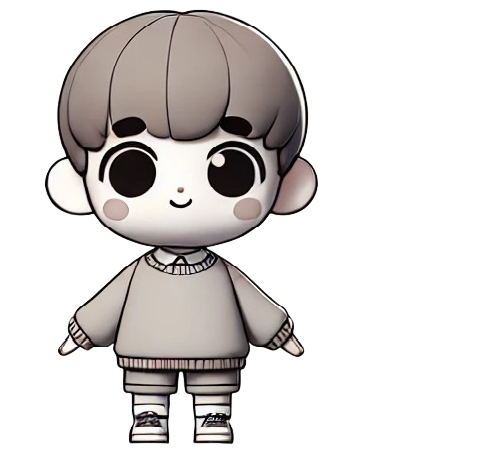
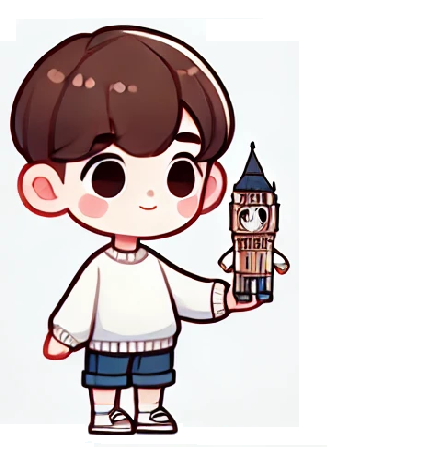
English + Maths character

diff --git a/src/components/SubjectChoice.js b/src/components/SubjectChoice.js
@@ -14,7 +14,7 @@ const SubjectChoice = () => {
         <ul className= "subject-choice">
           <li>
             <a href="/lessons/subject/Maths" class="mathematiques">
-              <img src="/images/mathsGuy.png" alt="Mathematiques" />
+              <img src="/images/mathsGirl.png" alt="Mathematiques" />
             </a>
           </li>
 

diff --git a/src/css/SubjectChoice.css b/src/css/SubjectChoice.css
@@ -57,7 +57,7 @@
 }
 
 .mathematiques:hover img{
-    content: url(/images/mathsGuyChosen.png);
+    content: url(/images/mathsGirlChosen.png);
 }
 
 .history-geo:hover img{
